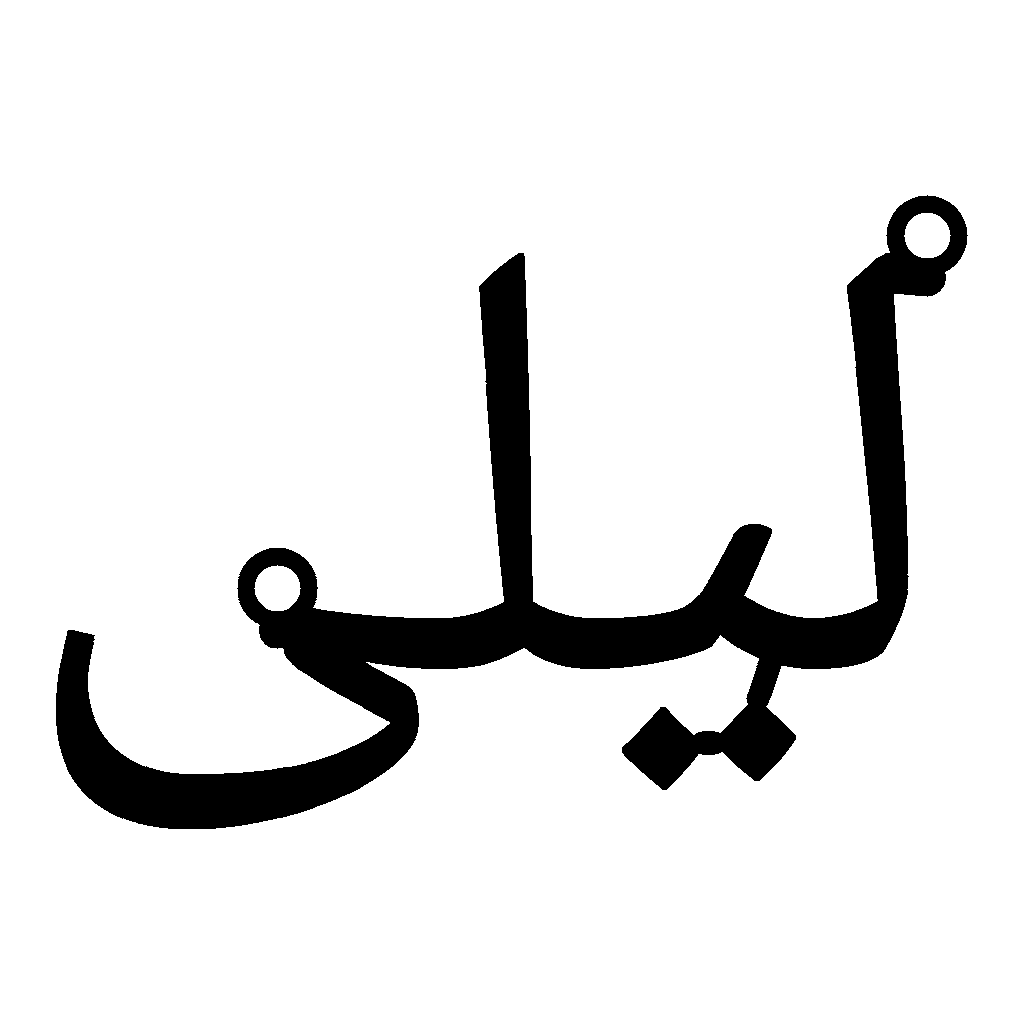
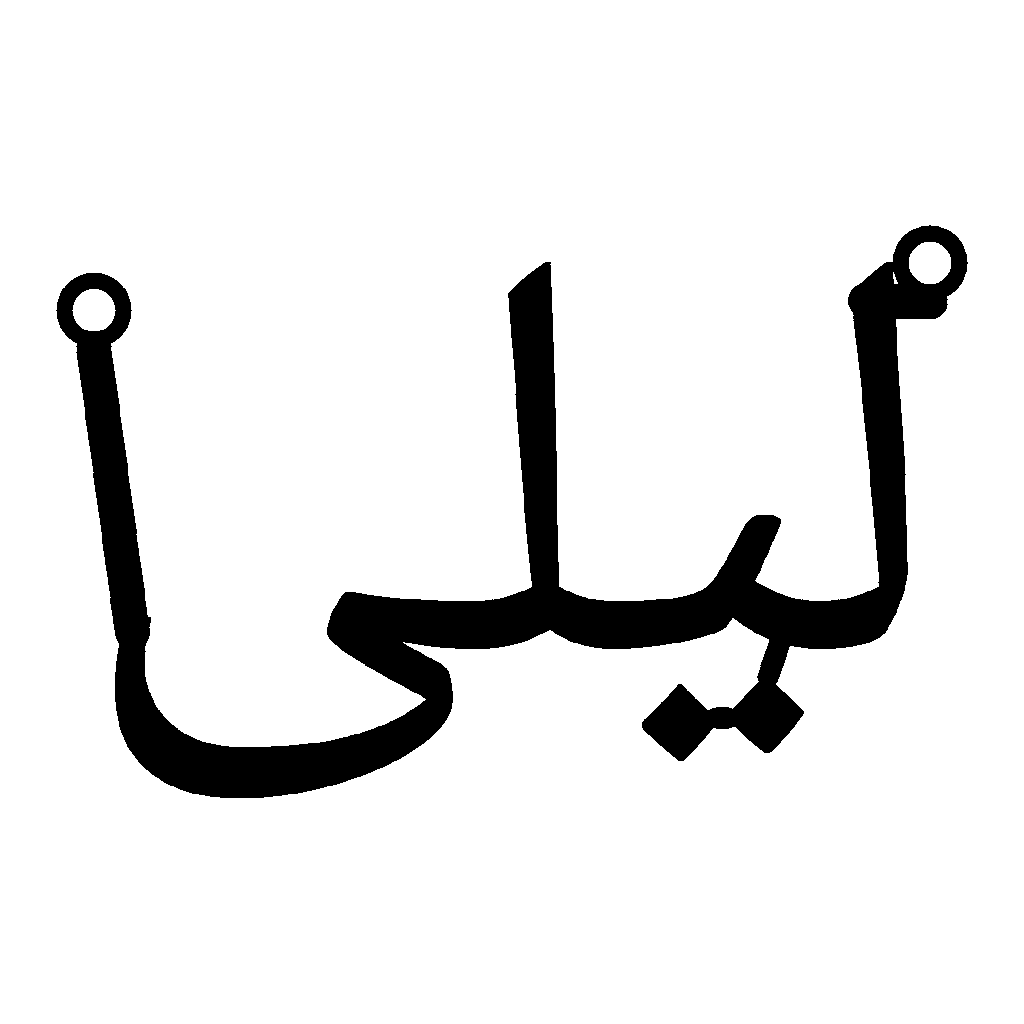
Remove the bar fallback routing: the rail is gone, so the ringPlacement bar gate, IDENTITY_BAR_FALLBACK_REVIEW and its contract and runbook entries go; identity_no_ring_seat is the pre-spend block; four production-sourced lab stencils regenerated from the pass 6 engine

diff --git a/apps/jobs/src/presentation.ts b/apps/jobs/src/presentation.ts
@@ -16,11 +16,7 @@ import {
   type StudioNameReader,
   type StudioVerifier,
 } from "@jewelo/ai";
-import {
-  identityBarFallbackReview,
-  parseJobsEnv,
-  pipelineLimits,
-} from "@jewelo/config";
+import { parseJobsEnv, pipelineLimits } from "@jewelo/config";
 // Pipeline fix review 1 finding 5. The one definition of a reference-asset id -
 // the opaque identifier the upload route mints, and nothing that can traverse a
 // path - is the one the upload route validates against, so this job cannot
@@ -172,24 +168,7 @@ export interface PresentationRepository {
     url: string;
     fingerprint: string;
     artifactId: string;
-    /**
-     * How the engine attached the jump rings to this stencil (D-020):
-     * `welded` on letter strokes, `bar` on a top rail, `none` for a
-     * construction that carries its own suspension. Optional so a repository
-     * that renders nothing - the in-memory one in a harness - can leave it
-     * out; a missing value is treated as "not a bar" by the review gate.
-     */
-    ringPlacement?: string;
   }>;
-  /**
-   * Whether a `bar` construction must be seen by the shop before a paid still
-   * is made of it (`IDENTITY_BAR_FALLBACK_REVIEW`, validated in
-   * `@jewelo/config` and read once when the dependencies are built, never per
-   * task). Undefined means on, so a repository that never set it cannot spend
-   * on a piece nobody approved; only an explicit `false` lets the bar
-   * construction proceed.
-   */
-  readonly barFallbackReviewEnabled?: boolean;
   signedStyleAnchorUrl(task: TaskRow): Promise<string>;
   /** Ready still of `dependency_task_id`; undefined while it is not ready yet. */
   signedDependencyStillUrl?(
@@ -474,21 +453,16 @@ export async function executePresentationTask(
   } catch (error) {
     return blockPreSpendTerminally(error);
   }
-  // D-020 bar fallback. The engine never refuses a name for want of a ring
-  // seat: where no letter stroke can carry a ring it welds a rail across the
-  // top of the lettering and hangs both rings from that. That is a different
-  // physical piece from the one the shopper approved, so unless the deployment
-  // has said bar pieces are sellable
-  // (`IDENTITY_BAR_FALLBACK_REVIEW=0`), the run stops here - before the
-  // attempt budget is read, before any reservation and before any provider
-  // call - and waits for the shop. The placement is a property of the name and
-  // the style, so a redispatch would decide the same thing: it is a pre-spend
-  // block like the others, terminal, with a code and no customer text.
-  if (
-    identity.ringPlacement === "bar" &&
-    repository.barFallbackReviewEnabled !== false
-  )
-    return blockPreSpendTerminally(new Error("identity_bar_fallback"));
+  // D-020, fix pass 6: there is no bar rail any more and no flag that lets one
+  // through. `ringPlacement` is `welded` or `none`, and a name whose lettering
+  // offers no ring seat makes the solver throw `identity_no_ring_seat` inside
+  // the identity render above - which is inside this same try, so it lands in
+  // `blockPreSpendTerminally` before the attempt budget is read, before any
+  // reservation and before any provider call, and the shop sees the piece
+  // instead of the shopper. The seat is a property of the name and the style,
+  // so a redispatch would decide the same thing: terminal, a code, no customer
+  // text.
+  //
   // The attempt budget is the database's, not this file's: `reserve_provider_attempt`,
   // `retry_generation_task` and `operator_retry_generation_task` all refuse past
   // the same `runtime_policy.provider_attempt_budget`, so a job that stopped one
@@ -734,11 +708,6 @@ export class SupabasePresentationRepository implements PresentationRepository {
     // validated in `@jewelo/config` (PIPELINE_RELEASE_ID) rather than written
     // here as a literal, so a release bump is a configuration change.
     private readonly pipelineReleaseId = "caleums-final-media-v2",
-    // Pipeline fix 1 item 11. Whether a D-020 bar construction goes to
-    // operator review before any spend. Read once from the validated
-    // environment in `productionPresentationDependencies`, like the ringless
-    // set above, so no task reads an environment variable.
-    readonly barFallbackReviewEnabled = true,
   ) {}
   async #request<T>(path: string, init: RequestInit = {}): Promise<T> {
     const response = await fetch(`${this.url}${path}`, {
@@ -1018,12 +987,6 @@ export class SupabasePresentationRepository implements PresentationRepository {
       url,
       fingerprint: rendered.fingerprint,
       artifactId,
-      // Already stored on the artifact row: `validation_report` is
-      // `rendered.report`, whose `claimed` block spreads the construction
-      // measurement and so carries `claimed.ringPlacement`. Nothing new is
-      // written and no migration is needed; the value is handed back so the
-      // pre-spend gate can read it without a second query.
-      ringPlacement: rendered.construction.ringPlacement,
     };
   }
   async signedStyleAnchorUrl(task: TaskRow) {
@@ -1488,7 +1451,6 @@ export function productionPresentationDependencies(
     config.VIDEO_ENABLED,
     config.IDENTITY_RINGLESS_CONSTRUCTIONS,
     config.PIPELINE_RELEASE_ID,
-    identityBarFallbackReview(environment),
   );
   if (config.PROVIDER_MODE === "mock")
     return {

diff --git a/packages/config/src/index.ts b/packages/config/src/index.ts
@@ -658,29 +658,3 @@ export function trustedClientIpHeader(
 ): string {
   return trustedClientIpHeaderSchema.parse(env.TRUSTED_CLIENT_IP_HEADER);
 }
-
-/* ------------------------------------------------------------------------- */
-/* Whether a bar-fallback identity construction goes to operator review.      */
-/*                                                                            */
-/* D-020 lets the engine fall back to a top rail with a ring at each of its    */
-/* ends when no clean seat exists on any letter stroke, instead of refusing a  */
-/* customer's name. That fallback is a different physical piece from the one   */
-/* the shopper approved - the rings hang from a bar across the top of the      */
-/* lettering rather than from the letters themselves - so the shop has to see  */
-/* it before any paid still is made of it. On, the default, the run stops      */
-/* pre-spend and lands in operator review. Off, the construction proceeds and  */
-/* the placement is still recorded on the identity artifact, so a deployment   */
-/* that has decided bar pieces are sellable loses no evidence.                 */
-/* ------------------------------------------------------------------------- */
-
-export const identityBarFallbackReviewSchema = z
-  .preprocess(blankToUndefined, z.enum(["0", "1"]).default("1"))
-  .transform((value) => value === "1");
-
-export function identityBarFallbackReview(
-  env: Record<string, string | undefined> = process.env,
-): boolean {
-  return identityBarFallbackReviewSchema.parse(
-    env.IDENTITY_BAR_FALLBACK_REVIEW,
-  );
-}

diff --git a/docs/DECISION-REGISTER.md b/docs/DECISION-REGISTER.md
@@ -74,7 +74,9 @@ On `قق` it touched the name along 11% of its span and the whole pendant hung f
 Making it honest means bridging the rail down to every base glyph and scanning under the rail exactly as a fillet is scanned - the weld machinery a second time, with weaker evidence - and the result is a different physical product, a nameplate on a bar, that the shop has never approved.
 Whether such a piece is sellable is a question for Omran (adversarial pass 5, major 4) and it is not answered by building one.
 So the rail is deleted. `ringPlacement` has two values, `welded` and `none`, and `none` means the construction carries its own suspension, never a failure.
-A name that cannot seat two rings under the gates raises `identity_no_ring_seat`: a terminal pre-spend block with a code and no customer text, which is the same routing the bar path already reached through `identity_bar_fallback` with its default on, and the same outcome for the shopper, without a piece that pretends to be one.
+A name that cannot seat two rings under the gates raises `identity_no_ring_seat`: the solver refuses it inside the identity render, so the run is blocked pre-spend - before the attempt budget, before any reservation, before any provider call - terminal, with a code and no customer text, and the request reaches the shop for review rather than the shopper.
+That is the same routing and the same outcome the bar path used to reach through `identity_bar_fallback`, without a piece that pretends to be one.
+The flag that made that routing optional, `IDENTITY_BAR_FALLBACK_REVIEW`, was removed on 8 September 2026 together with its schema in `@jewelo/config`, its entry in the DigitalOcean env contract and the `ringPlacement === "bar"` gate in `apps/jobs/src/presentation.ts`: with no rail to build, there is nothing for it to let through.
 
 ### Level, and balanced
 

diff --git a/docs/DIGITALOCEAN-DEPLOYMENT.md b/docs/DIGITALOCEAN-DEPLOYMENT.md
@@ -209,13 +209,6 @@ instead.
 An empty value is a decision, not an absence: it is shipped explicitly as an
 empty variable and the dry run reports it as `set (empty)`.
 
-`IDENTITY_BAR_FALLBACK_REVIEW` is another of them: `1`, the default, sends any
-run whose stencil fell back to the D-020 bar construction to operator review
-before a paid still is made, because rings on a top rail are a different
-physical piece from the rings on the letters the shopper approved.
-Set it to `0` only once the shop has agreed that bar pieces are sellable; the
-placement is recorded on the identity artifact either way.
-
 ## First-time workstation check
 
 Use the repository wrapper so `doctl` reads only the ignored token rather than
